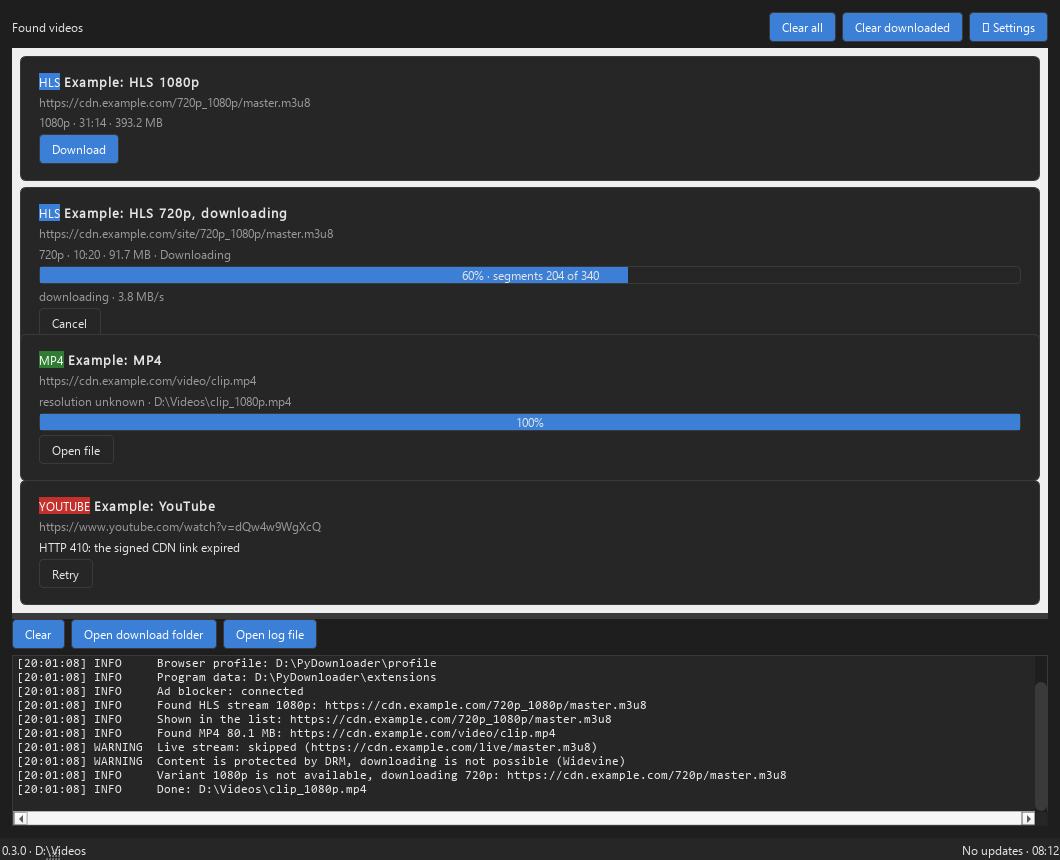
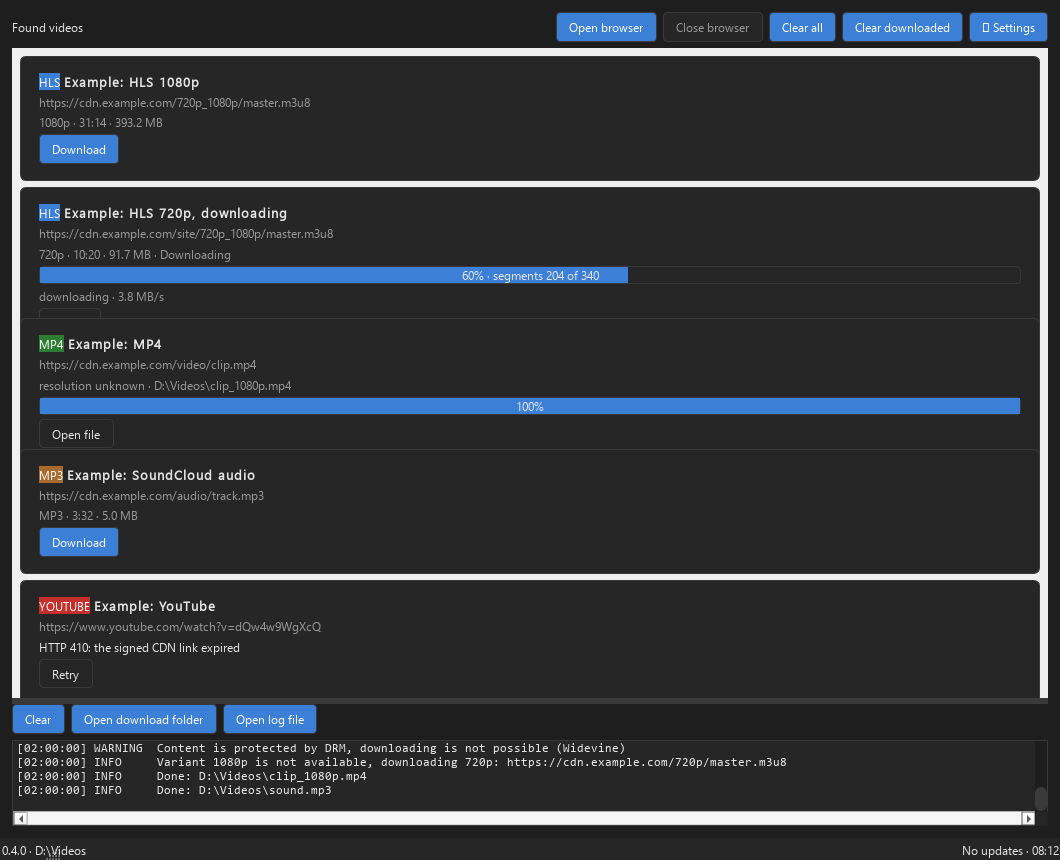
update

Changed region(s): [[0.0, 0.3628, 0.9962, 0.9372], [0.5292, 0.0, 0.716, 0.0605]]

diff --git a/tools/make_screenshots.py b/tools/make_screenshots.py
@@ -38,10 +38,10 @@ OUT = Path("assets") / "screenshots"
 DOWNLOADS = Path("D:\\Videos")
 #: Version printed in the console lines: the screenshots are for the release page,
 #: so the tag is written out and stays stable between runs.
-DISPLAY_VERSION = "0.3.0"
+DISPLAY_VERSION = "0.4.0"
 WINDOW_SIZE = (1060, 860)
-#: Splitter sizes of the screenshot: the four demo cards and a dozen console lines.
-CARD_SECTION_HEIGHT = (640, 220)
+#: Splitter sizes of the screenshot: the five demo cards and a dozen console lines.
+CARD_SECTION_HEIGHT = (730, 130)
 UI_FONT = "Segoe UI"
 #: The offscreen platform has no font database: the letters become boxes
 #: until the fonts of Windows are registered in the application.
@@ -87,6 +87,16 @@ def demo_cards() -> list[SourceEntry]:
             size=84_000_000,
         ),
         SourceEntry(
+            id="mp3",
+            kind="mp4",
+            url="https://cdn.example.com/audio/track.mp3",
+            normalized="https://cdn.example.com/audio/track.mp3",
+            title="Example: SoundCloud audio",
+            duration=212.0,
+            size=5_200_000,
+            is_audio=True,
+        ),
+        SourceEntry(
             id="yt",
             kind="youtube",
             url="https://www.youtube.com/watch?v=dQw4w9WgXcQ",
@@ -113,12 +123,15 @@ def fill_console(window: MainWindow) -> None:
     )
     console.show_info(tr("window_shown", url="https://cdn.example.com/720p_1080p/master.m3u8"))
     console.show_info(tr("mf_found_mp4", quality="80.1 MB", url="https://cdn.example.com/video/clip.mp4"))
+    console.show_info(tr("mf_found_audio", url="https://cdn.example.com/audio/master.m3u8"))
+    console.show_info(tr("mf_found_mp4", quality="MP3", url="https://cdn.example.com/audio/track.mp3"))
     console.show_warning(tr("mf_live_skipped", url="https://cdn.example.com/live/master.m3u8"))
     console.show_warning(tr("dl_drm_detected", message=tr("mf_drm_message"), system="Widevine"))
     console.show_info(
         tr("dl_variant_fallback", height=1080, fallback=720, url="https://cdn.example.com/720p/master.m3u8")
     )
     console.show_info(tr("window_finished", path=DOWNLOADS / "clip_1080p.mp4"))
+    console.show_info(tr("window_finished", path=DOWNLOADS / "sound.mp3"))
 
 
 def fill_cards(window: MainWindow) -> None:
@@ -131,7 +144,9 @@ def fill_cards(window: MainWindow) -> None:
     cards[1].set_progress(204, 340, 3.8)
     cards[2].set_result(str(DOWNLOADS / "clip_1080p.mp4"))
     window.out_paths["mp4"] = DOWNLOADS / "clip_1080p.mp4"
-    cards[3].set_error("HTTP 410: the signed CDN link expired")
+    # The audio card keeps the MP3 badge of an audio source (spec 5.2 p.4).
+    cards[3].set_state("new")
+    cards[4].set_error("HTTP 410: the signed CDN link expired")
 
 
 def shot(widget, name: str) -> None:
